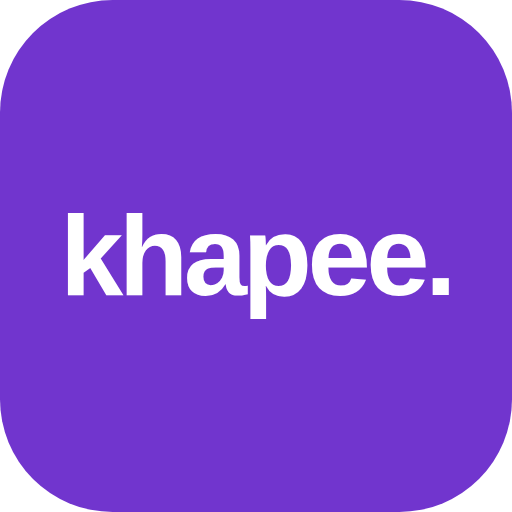
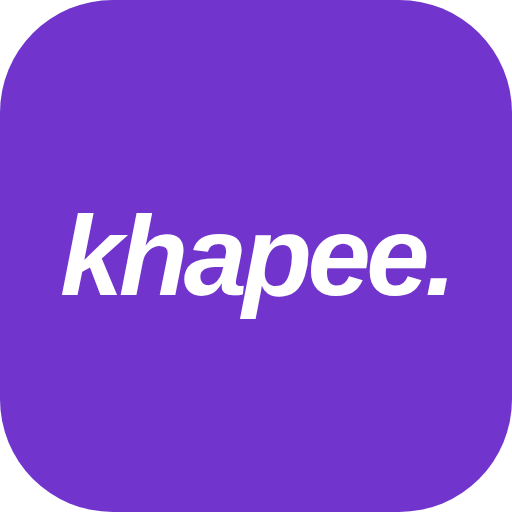
A switch for the theme, and a logotype instead of a bold word
Dark was whatever the phone was set to, through a media query, with no way
to disagree with it: a customer whose phone flips at sunset got a dark menu
under a restaurant's lights, and a till on a bright counter got the same.
It is an attribute on <html> now, driven by a switch in the header, written
before the first paint so choosing dark is not a white flash on the way in,
and remembered. The phone's own preference is deliberately not read — a menu
is looked at in a lit room more often than in bed, so light is the default
for everybody and dark is something you pick.

The four @media (prefers-color-scheme: dark) blocks became
:root[data-theme='dark'] selectors. Flattened rather than nested: CSS
nesting is not safe to ship without a transpile step and a descendant
selector says the same thing.

The mark is a logotype now — Archivo, 900, italic, the same cut as "kuch
khapee lo." two centimetres below it. Set in the interface face it was the
app's name typed out in bold, and every screen in the product uses that
face, so the one thing that is supposed to be the brand read as a heading
that had wandered into the header. Slanted and heavy it is a mark. The icon
is drawn from the same setting, so the thing on the home screen and the
thing at the top of the page are one drawing.

One bug found on the way in: the switch was added as the nav's first child,
and the phone breakpoint hides whatever is first there — so it hid the
[…]

Changed region(s): [[0.125, 0.4062, 0.875, 0.625]]

diff --git a/src/styles.css b/src/styles.css
@@ -1,5 +1,8 @@
 /* ============================================================ design tokens */
 :root {
+  /* Light unless the switch in the header says otherwise. */
+  color-scheme: light;
+
   /*
    * Paper and ink, with the brand kept to the things you press.
    *
@@ -124,44 +127,53 @@
   --gutter: 22px;
 }
 
-@media (prefers-color-scheme: dark) {
-  :root {
-    /* Near-black, not aubergine. The accents do the identifying; a dyed
-       surface at this size only makes the screen harder to sit in front of. */
-    --bg: #0e0e0d;
-    --bg-tint: #161615;
-    --surface: #171716;
-    --surface-2: #1d1d1b;
-    /* The text is the website's cream, which is the one place the warmth can
-       come back at night without dyeing a single panel to get it. */
-    --ink: #f4ede1;
-    --ink-2: #d3cdc2;
-    --muted: #918d85;
-    --line: rgba(244, 237, 225, 0.09);
-    --line-strong: rgba(244, 237, 225, 0.2);
+/*
+ * Night, chosen rather than inherited.
+ *
+ * This was @media (prefers-color-scheme: dark), which meant the app's
+ * appearance was whatever the phone happened to be set to and there was no
+ * way to disagree with it. It is an attribute now, set on <html> before the
+ * first paint, so the switch in the header can drive it — and so the default
+ * is light for everybody regardless of what their phone prefers, because a
+ * menu is read in a lit restaurant more often than it is read in bed.
+ */
+:root[data-theme='dark'] {
+  color-scheme: dark;
+  /* Near-black, not aubergine. The accents do the identifying; a dyed
+     surface at this size only makes the screen harder to sit in front of. */
+  --bg: #0e0e0d;
+  --bg-tint: #161615;
+  --surface: #171716;
+  --surface-2: #1d1d1b;
+  /* The text is the website's cream, which is the one place the warmth can
+     come back at night without dyeing a single panel to get it. */
+  --ink: #f4ede1;
+  --ink-2: #d3cdc2;
+  --muted: #918d85;
+  --line: rgba(244, 237, 225, 0.09);
+  --line-strong: rgba(244, 237, 225, 0.2);
 
-    /* The light-mode purple disappears into black, so it is lifted until it
-       carries near-black text instead of white. */
-    --accent: #b9a3e8;
-    --accent-ink: #14101f;
-    --accent-soft: #241d33;
-    --gold: #e3b45c;
-    --gold-soft: #2a2312;
+  /* The light-mode purple disappears into black, so it is lifted until it
+     carries near-black text instead of white. */
+  --accent: #b9a3e8;
+  --accent-ink: #14101f;
+  --accent-soft: #241d33;
+  --gold: #e3b45c;
+  --gold-soft: #2a2312;
 
-    --good: #6ecb9b;
-    --good-soft: #12281d;
-    --warn: #dfb469;
-    --warn-soft: #2a2312;
-    --bad: #ef8b80;
-    --bad-soft: #2e1815;
-    --info: #8fb0ce;
-    --info-soft: #14202b;
+  --good: #6ecb9b;
+  --good-soft: #12281d;
+  --warn: #dfb469;
+  --warn-soft: #2a2312;
+  --bad: #ef8b80;
+  --bad-soft: #2e1815;
+  --info: #8fb0ce;
+  --info-soft: #14202b;
 
-    --shadow-sm: 0 1px 3px rgba(0, 0, 0, 0.5);
-    --shadow-md: 0 8px 24px rgba(0, 0, 0, 0.55);
-    --shadow-lg: 0 28px 60px rgba(0, 0, 0, 0.68);
-    --shadow-accent: 0 10px 28px rgba(0, 0, 0, 0.5);
-  }
+  --shadow-sm: 0 1px 3px rgba(0, 0, 0, 0.5);
+  --shadow-md: 0 8px 24px rgba(0, 0, 0, 0.55);
+  --shadow-lg: 0 28px 60px rgba(0, 0, 0, 0.68);
+  --shadow-accent: 0 10px 28px rgba(0, 0, 0, 0.5);
 }
 
 /* ================================================================== base */
@@ -583,9 +595,20 @@ textarea {
 .brand {
   display: flex;
   align-items: baseline;
-  font-family: var(--display);
-  font-size: 24px;
-  font-weight: 800;
+  /*
+   * The loud face, at the loud weight, italic — the same cut as the line at
+   * the top of the home screen.
+   *
+   * Set in the plain interface face it was just the app's name typed out in
+   * bold, which is what "cheap" meant: every screen in the product used that
+   * face, so the one thing that is supposed to be the brand looked like a
+   * heading that had wandered into the header. Slanted and heavy it is a
+   * logotype, and it rhymes with "kuch khapee lo." two centimetres below it.
+   */
+  font-family: var(--shout);
+  font-style: italic;
+  font-size: 25px;
+  font-weight: 900;
   letter-spacing: -0.045em;
 }
 
@@ -887,12 +910,10 @@ textarea {
   z-index: 1;
   transition: transform 0.35s var(--ease);
 }
-@media (prefers-color-scheme: dark) {
-  .art {
-    /* Warm tile over a near-black page: kept dim so a menu of them reads as
-       one surface rather than a row of lit windows. */
-    background: hsl(var(--art-hue) 22% 26%);
-  }
+/* Warm tile over a near-black page: kept dim so a menu of them reads as one
+   surface rather than a row of lit windows. */
+:root[data-theme='dark'] .art {
+  background: hsl(var(--art-hue) 22% 26%);
 }
 
 .art-photo img {
@@ -953,10 +974,8 @@ textarea {
   place-items: center;
   background: rgba(255, 255, 255, 0.7);
 }
-@media (prefers-color-scheme: dark) {
-  .image-picker-busy {
-    background: rgba(0, 0, 0, 0.55);
-  }
+:root[data-theme='dark'] .image-picker-busy {
+  background: rgba(0, 0, 0, 0.55);
 }
 
 .notice {
@@ -5922,12 +5941,10 @@ button.nav-link {
   color: #1f7a45;
   border: 1px dashed rgba(31, 157, 85, 0.55);
 }
-@media (prefers-color-scheme: dark) {
-  .badge-paid-upi {
-    background: rgba(74, 200, 128, 0.16);
-    color: #7fd7a4;
-    border-color: rgba(127, 215, 164, 0.5);
-  }
+:root[data-theme='dark'] .badge-paid-upi {
+  background: rgba(74, 200, 128, 0.16);
+  color: #7fd7a4;
+  border-color: rgba(127, 215, 164, 0.5);
 }
 
 /* Waiting on the restaurant to confirm a UPI payment.
@@ -6969,3 +6986,26 @@ button.nav-link {
 .takings-emoji { font-size: 16px; }
 
 .ledger tr.is-refund { opacity: 0.72; }
+
+/*
+  Light or dark, in the header.
+
+  It reads as one of the nav links rather than as a control bolted on, and it
+  shows the thing it will do rather than the thing you are looking at — which
+  is the only version of this switch nobody has to stop and think about.
+*/
+.theme-toggle {
+  display: inline-grid;
+  place-items: center;
+  padding: 8px;
+  border: 0;
+  background: transparent;
+  color: inherit;
+  cursor: pointer;
+  border-radius: 999px;
+  transition: color 0.18s var(--ease), background 0.18s var(--ease);
+}
+.theme-toggle:hover {
+  color: var(--accent);
+  background: var(--accent-soft);
+}

diff --git a/index.html b/index.html
@@ -3,13 +3,34 @@
   <head>
     <meta charset="UTF-8" />
     <meta name="viewport" content="width=device-width, initial-scale=1, viewport-fit=cover" />
-    <!-- The browser chrome takes the page's own colour: cream normally, the
-         night bed when the phone is in dark mode. -->
-    <!-- The brand purple in both, because the block at the top of the page is
-         that colour in both, and the phone's own bar sits directly above it. -->
-    <meta name="theme-color" media="(prefers-color-scheme: light)" content="#682cc2" />
-    <meta name="theme-color" media="(prefers-color-scheme: dark)" content="#682cc2" />
+    <!-- One tag, rewritten by the theme switch. It carries the page's own top
+         colour — the header bar, not the purple block under it — because the
+         browser's chrome sits directly above that bar and nothing else. -->
+    <meta name="theme-color" content="#f7f6f3" />
     <title>Khapee — order at the table</title>
+
+    <script>
+      /*
+        Set the theme before the first pixel.
+
+        React mounting a moment later and adding the attribute then is a white
+        flash for anybody who chose dark, which is worse than either theme.
+        The phone's own preference is deliberately not read: a menu is looked
+        at in a lit restaurant more often than in bed, so light is the default
+        for everybody and dark is something you pick.
+      */
+      ;(function () {
+        try {
+          if (localStorage.getItem('khapee.theme') === 'dark') {
+            document.documentElement.setAttribute('data-theme', 'dark')
+            var m = document.querySelector('meta[name="theme-color"]')
+            if (m) m.setAttribute('content', '#0e0e0d')
+          }
+        } catch (e) {
+          /* a private window simply gets the light theme */
+        }
+      })()
+    </script>
 
     <!--
       Inter sets everything, and Archivo sets the one line that shouts.

diff --git a/src/lib/theme.ts b/src/lib/theme.ts
@@ -1,0 +1,54 @@
+import { useCallback, useEffect, useState } from 'react'
+
+/**
+ * Light or dark, chosen rather than inherited.
+ *
+ * This used to be whatever the phone was set to, through a media query, and
+ * there was no way to disagree with it — a customer whose phone flips to dark
+ * at sunset got a dark menu whether or not they were sitting under a
+ * restaurant's lights, and a restaurant running the till on a bright counter
+ * got the same. Now it is a choice, it is remembered, and the default for
+ * everybody is light.
+ *
+ * The attribute is written to <html> in index.html before the first paint;
+ * this only keeps React in step with it and writes changes back.
+ */
+export type Theme = 'light' | 'dark'
+
+const KEY = 'khapee.theme'
+
+/** Matches --bg in each theme: the browser's own bar sits directly above it. */
+const CHROME: Record<Theme, string> = { light: '#f7f6f3', dark: '#0e0e0d' }
+
+function read(): Theme {
+  try {
+    return localStorage.getItem(KEY) === 'dark' ? 'dark' : 'light'
+  } catch {
+    // A private window cannot remember, and gets the default, which is fine.
+    return 'light'
+  }
+}
+
+export function useTheme() {
+  const [theme, setTheme] = useState<Theme>(read)
+
+  useEffect(() => {
+    const root = document.documentElement
+    if (theme === 'dark') root.setAttribute('data-theme', 'dark')
+    else root.removeAttribute('data-theme')
+
+    document
+      .querySelector('meta[name="theme-color"]')
+      ?.setAttribute('content', CHROME[theme])
+
+    try {
+      localStorage.setItem(KEY, theme)
+    } catch {
+      /* the page still looks right; it just will not persist */
+    }
+  }, [theme])
+
+  const toggle = useCallback(() => setTheme((t) => (t === 'dark' ? 'light' : 'dark')), [])
+
+  return { theme, toggle }
+}

diff --git a/src/components/Header.tsx b/src/components/Header.tsx
@@ -4,10 +4,12 @@ import { useSession } from '../lib/session'
 import { useCart } from '../lib/cart'
 import JoinRoom from './JoinRoom'
 import { useInstall } from '../lib/install'
-import { DownloadIcon } from './icons'
+import { useTheme } from '../lib/theme'
+import { DownloadIcon, MoonIcon, SunIcon } from './icons'
 
 export default function Header() {
   const { user, logout } = useSession()
+  const { theme, toggle } = useTheme()
   const { count } = useCart()
   const navigate = useNavigate()
   const [joining, setJoining] = useState(false)
@@ -40,9 +42,21 @@ export default function Header() {
       </Link>
       <div className="header-spacer" />
       <nav className="header-nav">
+        {/* Restaurants stays the first child: the phone breakpoint hides
+            whatever is first here, and it is the link it is meant to hide —
+            the wordmark beside it already goes home. */}
         <NavLink to="/" className={({ isActive }) => `nav-link ${isActive ? 'active' : ''}`}>
           Restaurants
         </NavLink>
+        {/* Named for what it will do, not for what you are looking at. */}
+        <button
+          className="nav-link theme-toggle"
+          onClick={toggle}
+          aria-label={theme === 'dark' ? 'Switch to the light theme' : 'Switch to the dark theme'}
+          title={theme === 'dark' ? 'Light' : 'Dark'}
+        >
+          {theme === 'dark' ? <SunIcon size={16} /> : <MoonIcon size={16} />}
+        </button>
         <NavLink to="/orders" className={({ isActive }) => `nav-link ${isActive ? 'active' : ''}`}>
           Orders
         </NavLink>

diff --git a/src/components/icons.tsx b/src/components/icons.tsx
@@ -79,6 +79,23 @@ export function ArrowRightIcon(props: IconProps) {
   )
 }
 
+export function SunIcon(props: IconProps) {
+  return (
+    <Svg {...props}>
+      <circle cx="8" cy="8" r="3.1" />
+      <path d="M8 1.4v1.5M8 13.1v1.5M1.4 8h1.5M13.1 8h1.5M3.4 3.4l1.1 1.1M11.5 11.5l1.1 1.1M12.6 3.4l-1.1 1.1M4.5 11.5l-1.1 1.1" />
+    </Svg>
+  )
+}
+
+export function MoonIcon(props: IconProps) {
+  return (
+    <Svg {...props}>
+      <path d="M13.3 9.5A5.7 5.7 0 0 1 6.5 2.7a5.8 5.8 0 1 0 6.8 6.8Z" />
+    </Svg>
+  )
+}
+
 export function PeopleIcon(props: IconProps) {
   return (
     <Svg {...props}>
